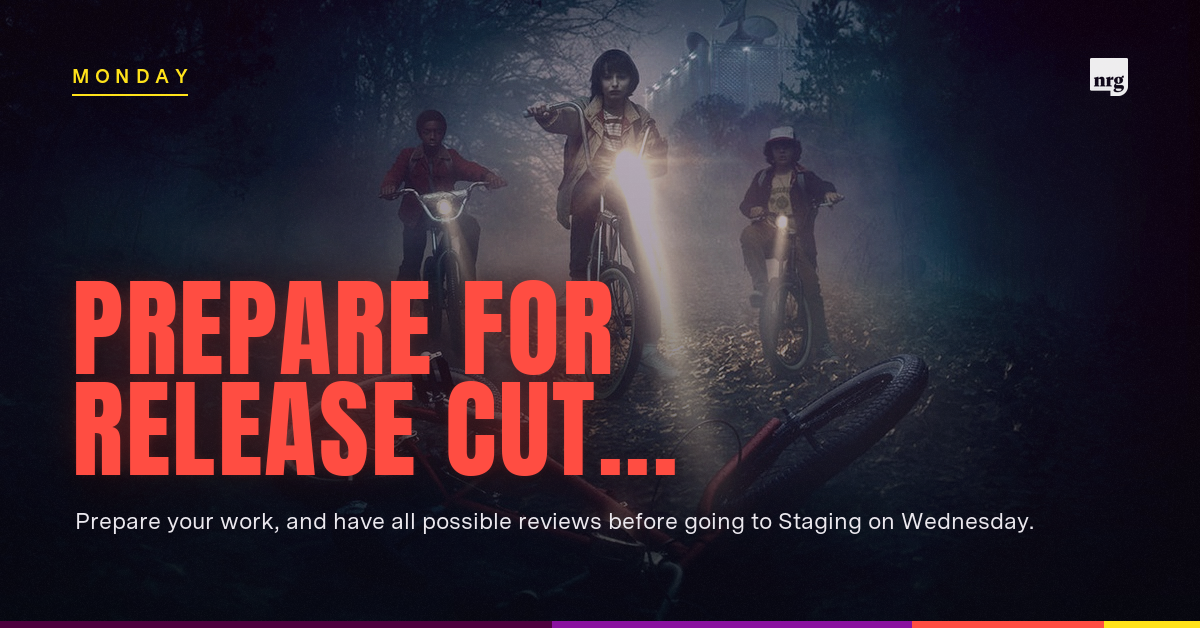
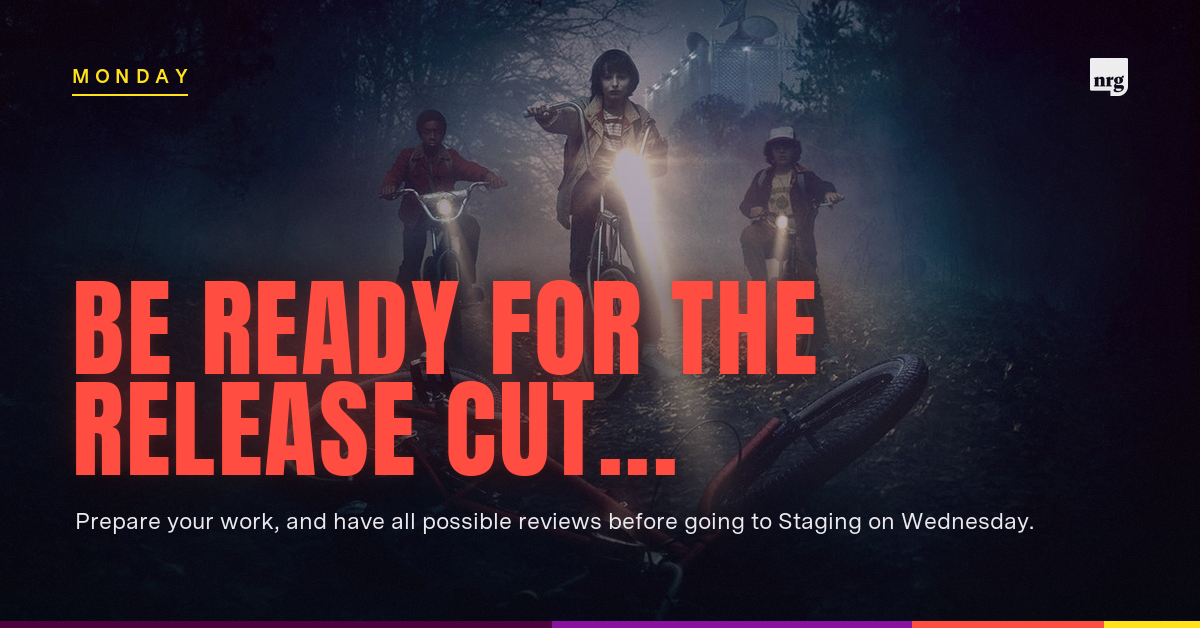
copy: reword the Monday title
"Prepare for Release Cut..." becomes "Be ready for the Release Cut...".
Still sets on two balanced lines at the full 108px.

Changed region(s): [[0.0617, 0.4236, 0.6783, 0.6051]]

diff --git a/skill/SKILL.md b/skill/SKILL.md
@@ -16,7 +16,7 @@ and posting off-schedule.
 
 | Day | Title | Description |
 |---|---|---|
-| Monday | Prepare for Release Cut... | Prepare your work, and have all possible reviews before going to Staging on Wednesday. |
+| Monday | Be ready for the Release Cut... | Prepare your work, and have all possible reviews before going to Staging on Wednesday. |
 | Tuesday | The Release Cut is tomorrow... | It's time to check if your work is really ready for Staging. |
 | Wednesday | Release Cut Day! | The release cut will be made around 8pm PST. |
 | Thursday | DEPLOYMENT DAY! | The production deployment will be made around 9pm PST. |

diff --git a/README.md b/README.md
@@ -9,7 +9,7 @@ Each card carries a 1200x628 banner and the current open pull requests in
 
 | Day | Announcement |
 |---|---|
-| Monday | Prepare for Release Cut... |
+| Monday | Be ready for the Release Cut... |
 | Tuesday | The Release Cut is tomorrow... |
 | Wednesday | Release Cut Day! |
 | Thursday | DEPLOYMENT DAY! |
